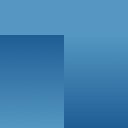
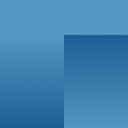
Initial character seletion screen

diff --git a/src/gamestates/charselection.c b/src/gamestates/charselection.c
@@ -1,46 +1,34 @@
-void runTitle() {
-    mountRomdisk("/cd/title_romdisk.img", "/title");
+void runCharSelection() {
+    mountRomdisk("/cd/charselect_romdisk.img", "/charselect");
 
     assert(loaded_models_n == 0);
 
-    loadModel("/title/map.obj", "/title/map.vq", VERTEX_ALL, 512);
-    loadModel("/title/title.obj", "/title/title.vq", VERTEX_ALL_ALPHA, 256);
+    loadModel("/charselect/background.obj", "/charselect/background.vq", VERTEX_ALL, 512);
 
-    umountRomdisk("/title");
+    umountRomdisk("/charselect");
 
     glEnable(GL_BLEND);
     glBlendFunc(GL_SRC_ALPHA, GL_ONE);
 
-    float rotation = 0;
-
     global_timer = 0;
-    while (cur_gs == GS_TITLE) {
+    while (cur_gs == GS_CHARSELECT) {
         global_timer++;
 
         maple_device_t *cont = maple_enum_type(0, MAPLE_FUNC_CONTROLLER);
         cont_state_t *state = (cont_state_t *)maple_dev_status(cont);
 
         if (global_timer > INPUT_DELAY && state->buttons & CONT_START) {
-            cur_gs = GS_CHARSELECT;
+            cur_gs = GS_GAME;
         }
-
-        rotation += 0.025;
 
         glClear(GL_COLOR_BUFFER_BIT | GL_DEPTH_BUFFER_BIT);
 
         glMatrixMode(GL_MODELVIEW);
         glLoadIdentity();
 
-        glTranslatef(0, 0, -14.0f);
+        glTranslatef(0, 0, -1.5f);
 
         glPushMatrix();
-        glTranslatef(0, 0, 8.0f);
-        drawModel(1);
-        glPopMatrix();
-
-        glPushMatrix();
-        glRotatef(rotation, 0, 0, 1);
-        glScalef(0.25, 0.25, 0.25);
         drawModel(0);
         glPopMatrix();
 
@@ -52,4 +40,8 @@ void runTitle() {
         destroyModel(i);
     }
     loaded_models_n = 0;
+
+    entities_size = 0;
+    loadPlayer();
+    cur_map.level = 1;
 }

diff --git a/src/gamestates/game.c b/src/gamestates/game.c
@@ -77,11 +77,17 @@ void runGame() {
 
     endLoading();
 
+    global_timer = 0;
     while (cur_gs == GS_GAME) {
+        global_timer++;
+        printf("%llu\n", global_timer);
+
         maple_device_t *cont = maple_enum_type(0, MAPLE_FUNC_CONTROLLER);
         cont_state_t *state = (cont_state_t *)maple_dev_status(cont);
 
-        getInput(state);
+        if (global_timer > INPUT_DELAY) {
+            getInput(state);
+        }
 
         for (struct projectile *cur = projectiles; cur; cur = cur->next) {
             doProjectileFrame(cur);

diff --git a/src/main.c b/src/main.c
@@ -29,6 +29,7 @@
 
 #include "gamestates/game.c"
 #include "gamestates/title.c"
+#include "gamestates/charselection.c"
 
 int main(int argc, char **argv) {
     glKosInit();
@@ -58,6 +59,9 @@ int main(int argc, char **argv) {
                 break;
             case GS_GAME:
                 runGame();
+                break;
+            case GS_CHARSELECT:
+                runCharSelection();
                 break;
             default:
                 return ARCH_EXIT_MENU;

diff --git a/src/common/model.c b/src/common/model.c
@@ -42,6 +42,7 @@ void loadModel(const char *obj_filename, const char *texture_filename, enum face
             struct textureCoord t = {};
             fscanf(f, " %f %f", &t.x, &t.y);
             t.y = 1 - t.y;
+            t.x = 1 - t.x;
             file.texture_coords[++file.num_texture_coords] = t;
         }
         else if (!strcmp(buffer, "f")) {

diff --git a/src/game/projectiles.c b/src/game/projectiles.c
@@ -31,6 +31,8 @@ void deleteProjectile(struct projectile *cur) {
 }
 
 void projectileDamageArea(struct projectile *cur) { //TODO: take walls into consideration
+    if (cur->type != PT_EXPLOSIVE) return;
+
     for (int i = 0; i < entities_size; i++) {
         if (i == cur->owner_entity) continue;
 

diff --git a/src/config.h b/src/config.h
@@ -9,6 +9,7 @@
 #define PLAYER_ID 0
 
 #define DEADZONE 25
+#define INPUT_DELAY 30
 
 #define GRAVITY 0.005f
 #define HIT_RADIUS 0.9375f

diff --git a/src/types.h b/src/types.h
@@ -53,6 +53,7 @@ struct quaternion {
 enum gamestate {
     GS_TITLE,
     GS_GAME,
+    GS_CHARSELECT,
 };
 
 enum projectileType {

diff --git a/src/globals.h b/src/globals.h
@@ -14,3 +14,5 @@ int loaded_models_n;
 
 thrd_t loading_thread;
 int loading_progress;
+
+unsigned long long global_timer;
